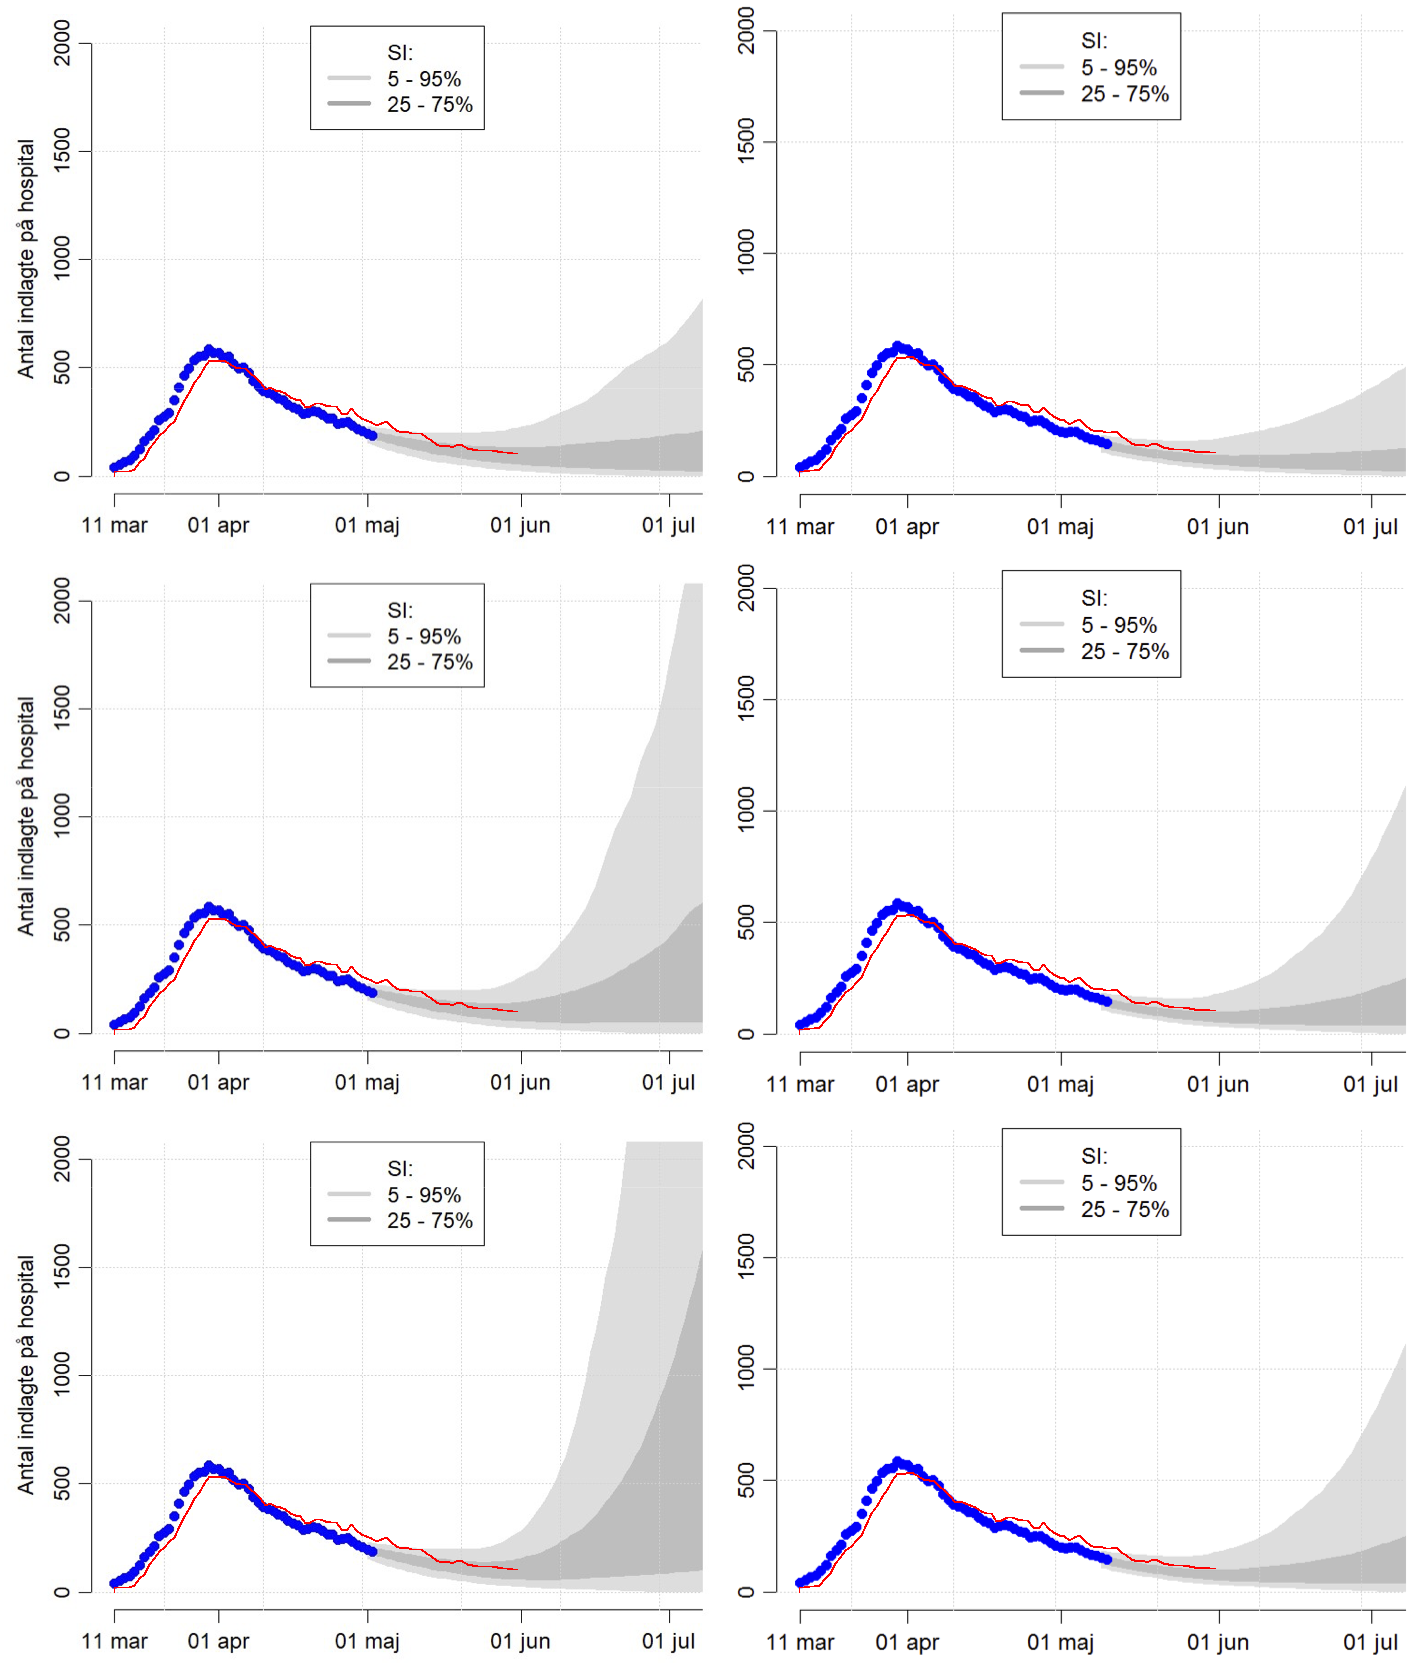
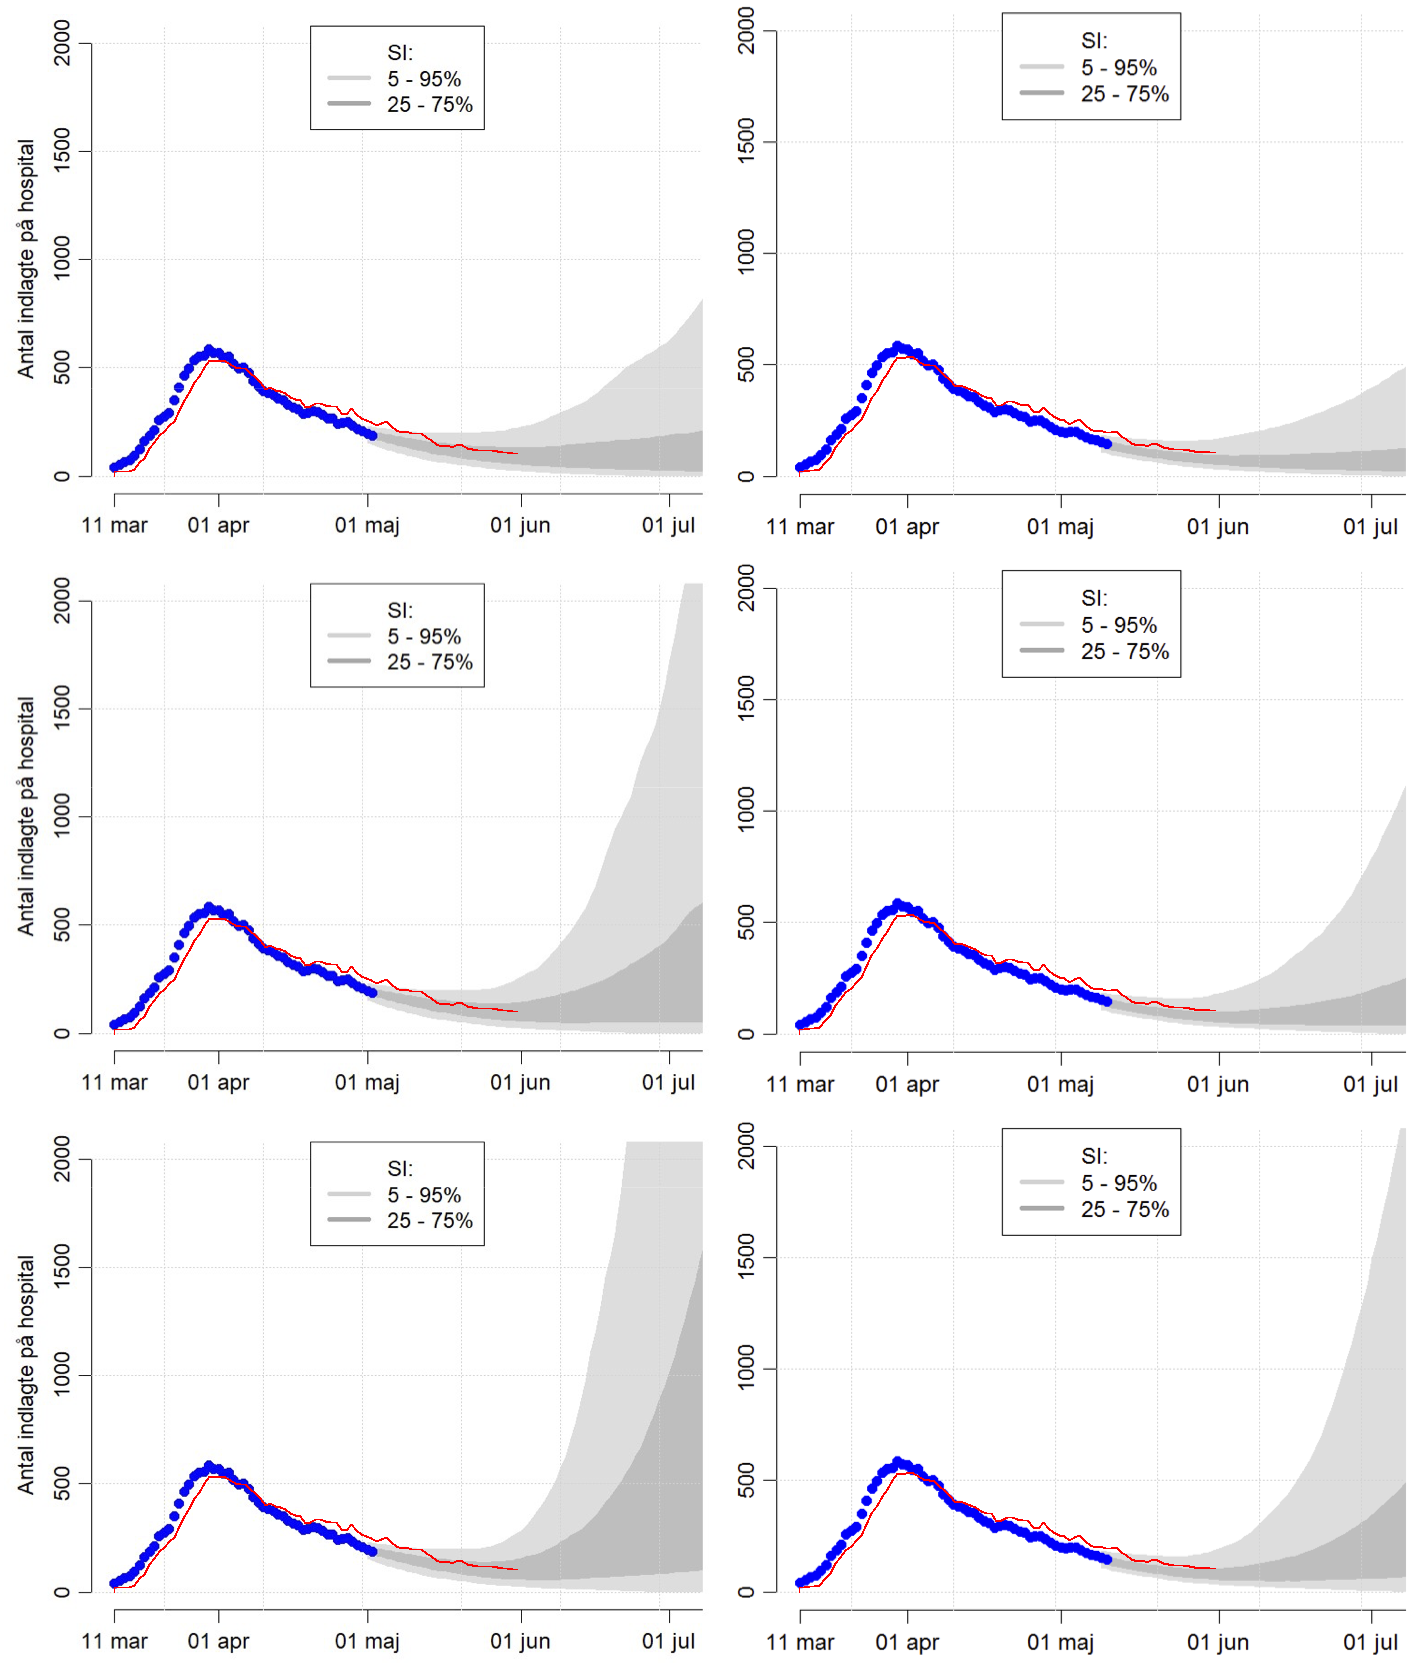
Fix typo

Changed region(s): [[0.8633, 0.6834, 0.9867, 0.9319]]

diff --git a/py/overlay.py b/py/overlay.py
@@ -7,7 +7,7 @@ p = (1034, 2490)
 img2 = [
     lib.Prediction('reports/20200520/13.png', x_size=110, y_size=2000).process(*p),
     lib.Prediction('reports/20200520/14.png', x_size=110, y_size=2000).process(*p),
-    lib.Prediction('reports/20200520/14.png', x_size=110, y_size=2000).process(*p),
+    lib.Prediction('reports/20200520/15.png', x_size=110, y_size=2000).process(*p),
 ]
 
 lib.save(lib.merge([img1, img2]), 'result.png')
